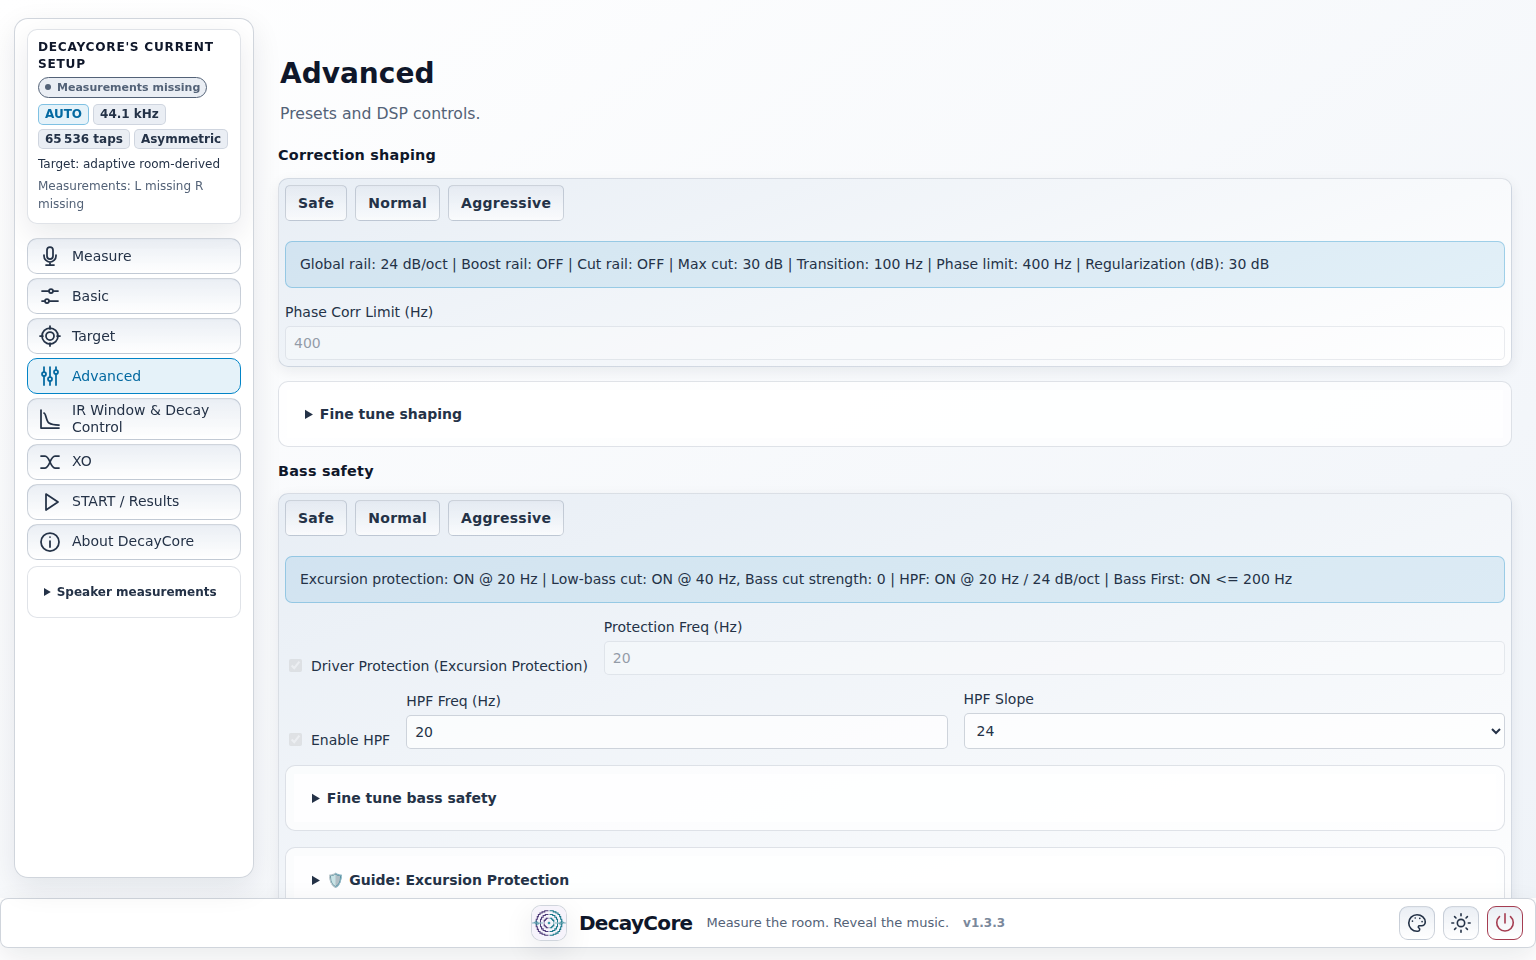
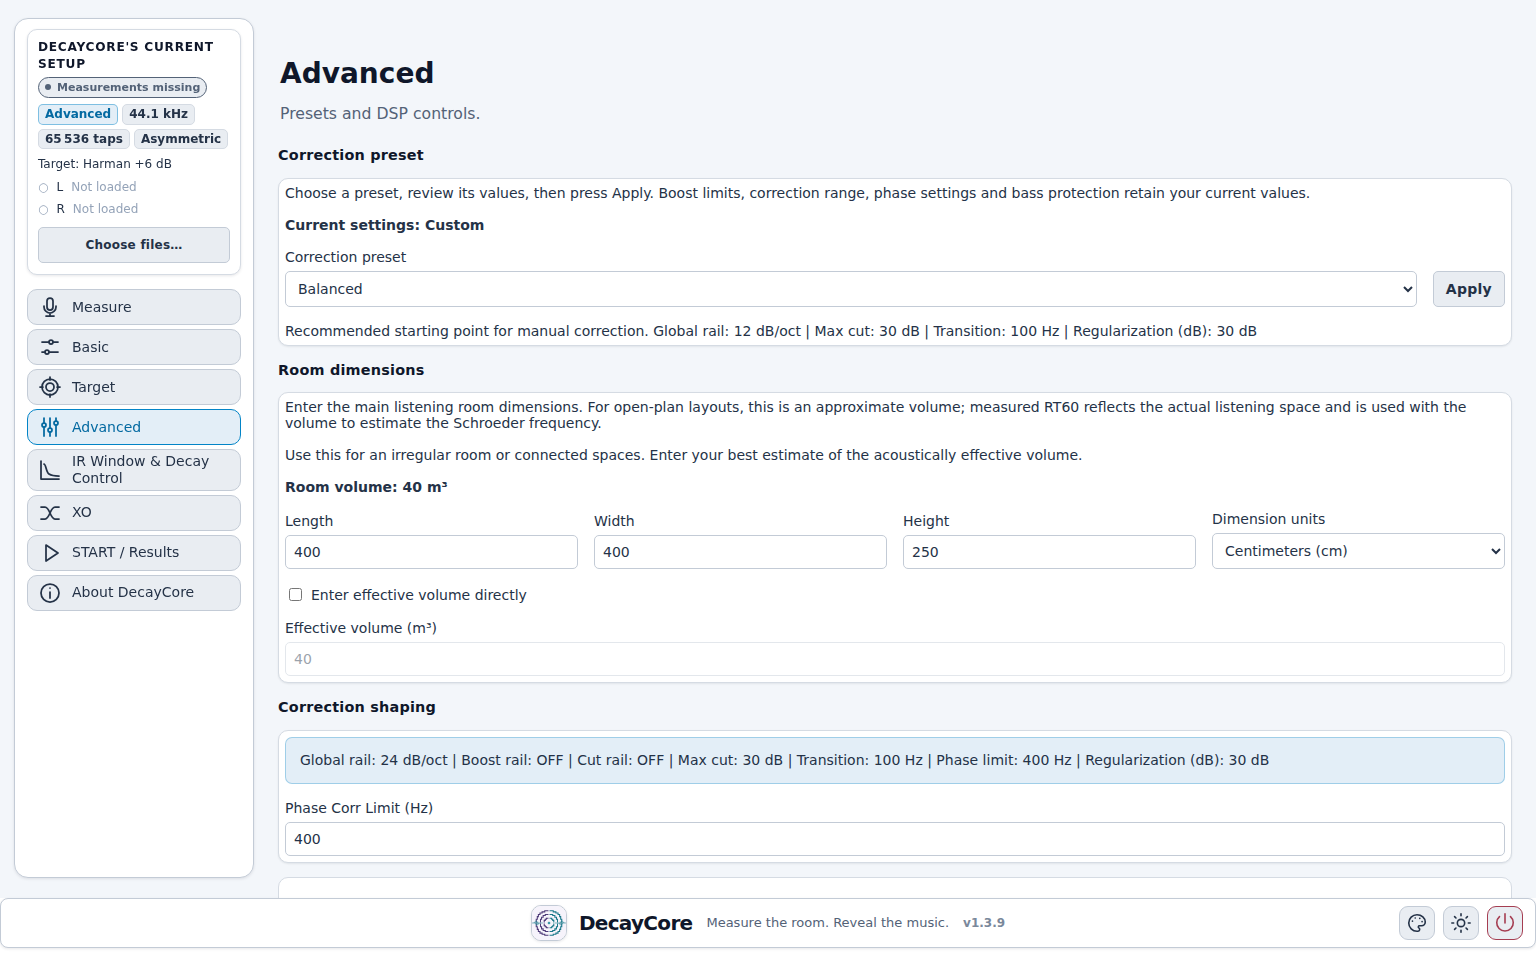
v1.3.9

Changed region(s): [[0.1562, 0.1562, 1.0, 0.9375], [0.0, 0.1562, 0.1562, 0.625], [0.0312, 0.0938, 0.125, 0.125]]

diff --git a/docs/CHANGELOG.md b/docs/CHANGELOG.md
@@ -8,26 +8,62 @@ hide_page_heading: true
 
 This page contains the five latest stable releases. [Older releases and Finnish translations are preserved in the archive]({{ '/changelog/archive/' | relative_url }}).
 
-## [Unreleased]
+## [1.3.9] - 4-10-2026
+
+### Easier from the start
+
+Choose your measurement files in one window, with Left and Right side by side.
+The sidebar keeps your current setup in view. Updated guides and screenshots
+help you through the first run.
+
+### Clearer results
+
+See what changed and why. Correction explanations are easier to read, with more
+room for the graphs and extra detail when you want it. Safety notices stay
+visible, and the exported report includes the same explanations.
+
+Graph downloads are easier to tell apart, even when you save several versions.
+
+### More from the first run
+
+Automatic mode now fine-tunes its best result more consistently on the first
+run. It also makes better use of measured distortion and room decay when
+choosing how much correction to apply.
+
+### Less waiting. Less memory.
+
+Filter calculations are faster, especially with long filters and repeated runs.
+Automatic mode also uses less memory. Acoustic safety checks remain in place.
 
 ### More reliable measurements
 
-Measurements are much less likely to stop with an "audio output underflow"
-error, especially on slower computers. Playing the sweep and recording the
-microphone now run in their own engine, which doesn't wait on anything else
-DecayCore is doing. On Linux, measurements also use a deeper audio buffer and
-ask the system to schedule audio ahead of other work, so the sweep is less
-likely to break up. If audio is still interrupted, for example by another heavy
-program, DecayCore stops the measurement and tells you instead of using a
-damaged recording.
+Measurements run more smoothly, especially on slower computers. Timing
+references are recognised more reliably in noisy recordings. If audio is
+interrupted, DecayCore stops the take and tells you to try again.
 
-### Lower memory use
+### More precise bass correction
 
-Automatic mode now uses about 30% less memory at its peak. On the test
-measurement, peak memory fell from about 890 MB to about 615 MB. Filters,
-scores and exported files are the same as before.
+Temporal Decay Control responds more precisely to the bass decay in your room.
+Two-subwoofer timing is also more reliable.
 
-### License terms in every download
+### Advanced, made simpler
+
+Choose Strict, Balanced or Loose, preview the settings, and press Apply.
+The new presets bring related correction controls together while keeping your
+chosen bass protection and phase settings.
+
+You can now enter effective room volume in cubic feet as well as cubic metres.
+
+### Easier to open
+
+Bookmark DecayCore's browser address and come back to it after a restart.
+With LAN access enabled, open it from another computer on your trusted network.
+Anyone who can reach the host can use the interface while LAN access is enabled.
+
+Linux installation now includes the launcher needed to open your browser
+automatically and checks that it is available.
+
+### License terms included
 
 Every download now includes the license and a list of third-party notices.
 DecayCore is free for non-commercial use. Commercial use needs written

diff --git a/docs/User_Manual.md b/docs/User_Manual.md
@@ -22,7 +22,7 @@ DecayCore accepts impulse-response WAV files and text exports containing frequen
 
 ### A safe first run
 
-1. Use **Measure** for guided Left and Right measurements with RT60 and harmonic data, then load the session results on **Files**. Import compatible measurements if guided measurement is unavailable.
+1. Use **Measure** for guided Left and Right measurements with RT60 and harmonic data, then press **Use final measurements**. To import existing measurements, open **Choose files…** in the sidebar.
 2. Select **DecayCore automatic mode (recommended)** and **Asymmetric**.
 3. Keep the **balanced** goal and **Adaptive: derive target from room acoustics** target strategy.
 4. Press **START** on **START / Results**.
@@ -32,6 +32,20 @@ DecayCore accepts impulse-response WAV files and text exports containing frequen
 When running from source, use **Basic** instead of Automatic mode.
 
 ## 2. Measure or import
+
+### Select measurement files
+
+Open **Choose files…** in the sidebar's current setup summary. The window shows
+the measurement folder and the Left and Right channels side by side. Select
+each channel's file from the folder, or expand **Load file or enter path manually**
+to upload a file or enter its path. **Suggest files** uses file names to suggest
+channel assignments; check the assignments before running correction.
+
+The sidebar shows the selected file for each channel. Once all required channels
+are loaded, the button changes to **Change files…**. With bass integration enabled,
+the same window shows the main and subwoofer channels.
+
+![Measurement file selection window with the folder and Left and Right channels](pics/measurement-file-selection.png)
 
 ### Guided measurement
 
@@ -95,6 +109,15 @@ Basic provides manual control with conservative defaults and hard safety clamps.
 ### Advanced
 
 Advanced exposes more correction, phase, timing, and protection controls. It is intended for measured experiments where you understand the effect of each change. Safety-critical numerical guards remain active.
+
+At the top of Advanced, choose **Strict**, **Balanced** or **Loose**, review the
+preview, then press **Apply**. Strict uses tighter correction limits; Balanced is
+the recommended starting point; Loose allows more freedom for fine-tuning. Each
+preset sets the correction slope limit, maximum cut, transition width and
+regularization. Your boost limits, correction range, phase settings and bass
+protection retain their current values. Changing a preset value manually shows
+**Custom**. Automatic mode locks the preset controls because it manages these
+settings itself.
 
 Selecting a mode does not rewrite every visible value. Use **Apply mode defaults** when you want to reset the controls to that mode's baseline.
 

diff --git a/docs/Installation.md b/docs/Installation.md
@@ -21,8 +21,13 @@ the native Automatic mode engine.
 | Raspberry Pi / Linux ARM64 | Extract `DecayCore_<version>_linux_arm64.7z`, run `./install.sh`, then start with `./run.sh`. | Intended for Raspberry Pi 4/5 and other 64-bit ARM Linux systems. It does not support 32-bit Raspberry Pi OS. |
 | macOS Apple Silicon | Extract `DecayCore_<version>_macos_arm64.7z`, then open `Start_Decay.command`. | If blocked, use **System Settings → Privacy & Security → Open Anyway**. Allow microphone access if requested. |
 
+The Linux installer also adds `xdg-utils`, which opens the local interface in
+your default browser. Run `./install.sh --check` to check the host audio libraries
+and browser launcher. A desktop session and an installed browser are needed for
+automatic browser opening; with `--lan`, you can use a browser on another computer.
+
 For measurement audio on Linux releases, DecayCore packages a pinned PortAudio build with
-ALSA and PulseAudio host APIs. `install.sh` supplies only its host audio
+ALSA and PulseAudio host APIs. `install.sh` supplies the host audio
 libraries: `libasound2t64 libpulse0` on current Debian/Ubuntu releases (`libasound2` on older releases), or `alsa-lib libpulse pipewire-alsa pipewire-pulse wireplumber`
 on an Arch PipeWire audio system.
 
@@ -32,9 +37,11 @@ DecayCore normally opens its local browser interface automatically. If it does n
 
 To use the interface from another computer on the same trusted network, start
 DecayCore with `--lan` (for example, `./run.sh --lan` on Linux). Open one of the
-complete `DecayCore LAN:` addresses printed in the console. The address includes
-a private session token and must be copied in full. LAN mode uses unencrypted
-HTTP and does not automatically open a local browser, so do not enable it on an
+`DecayCore LAN:` addresses printed in the console, such as
+`http://192.168.1.20:8080/`. You can bookmark this address; no session code is
+needed. Anyone who can reach the server on the network can open the interface.
+LAN mode uses unencrypted HTTP and does not automatically open a local browser,
+so do not enable it on an
 untrusted or publicly exposed network. The host firewall may also need permission
 for TCP port 8080 on the private network.
 

diff --git a/docs/getting-started.md b/docs/getting-started.md
@@ -41,9 +41,17 @@ Use the guided workflow on the **Measure** page whenever your platform and audio
 1. Connect your calibrated microphone.
 2. Load its calibration file.
 3. Measure Left and Right separately.
-4. Save the session and load the resulting impulse-response WAV files on the **Files** page. Keep the accompanying session files beside the WAVs so the saved RT60 and harmonic data remain available.
+4. Save the session and press **Use final measurements** to apply the results. Keep the accompanying session files beside the WAVs so the saved RT60 and harmonic data remain available when you reload them.
 
 If built-in measurement is unavailable, or you need to use existing files, import compatible REW text exports containing frequency, magnitude, and phase, or mono impulse-response WAV files. A suitable imported IR can provide RT60, but ordinary response exports do not carry DecayCore's full session data, including the separate harmonic curves. See [Measurement]({{ '/measurement-workflow/' | relative_url }}) for platform support, subwoofer routing, and export requirements.
+
+Open **Choose files…** in the sidebar and select the Left and Right files in the
+window. You can choose from the measurement folder, use **Suggest files**, or
+expand **Load file or enter path manually** to upload files or enter their paths.
+Check the channel assignments and the file names shown in the sidebar before
+starting. To replace loaded measurements, use **Change files…**.
+
+![Choose Left and Right measurement files in one window]({{ '/pics/measurement-file-selection.png' | relative_url }})
 
 ### 3. Start with Automatic mode
 

diff --git a/README.md b/README.md
@@ -32,7 +32,7 @@ The app runs locally on your computer, with controls in your web browser. No clo
 
 ## Screenshots
 
-![Basic tab with the speaker measurements sidebar open](docs/pics/ui_1.png)
+![Basic tab with the current setup and Choose files button in the sidebar](docs/pics/ui_1.png)
 
 ![Measure tab — configure capture devices and run guided room measurements](docs/pics/ui_2.png)
 
